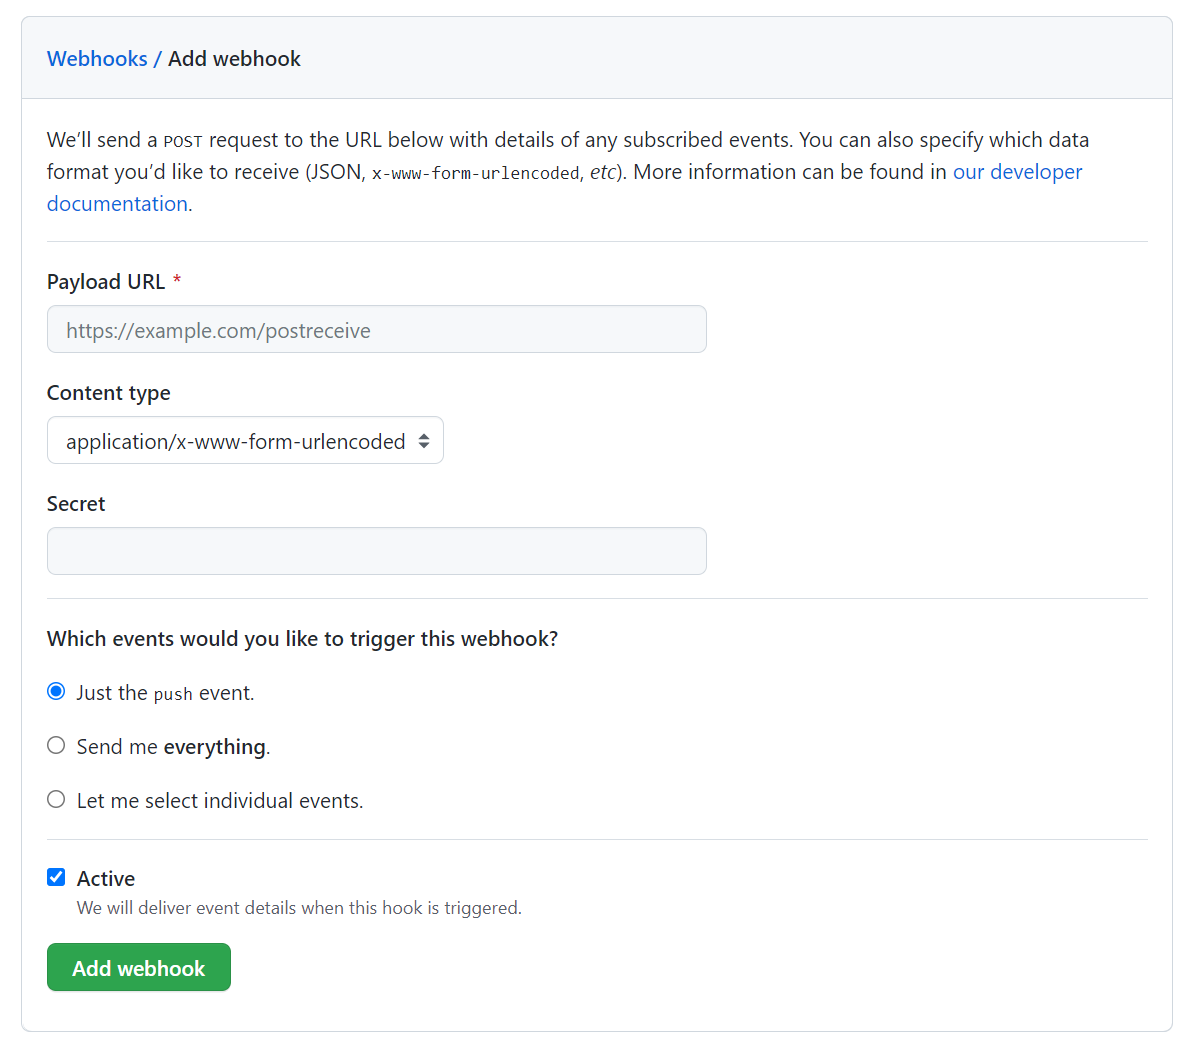
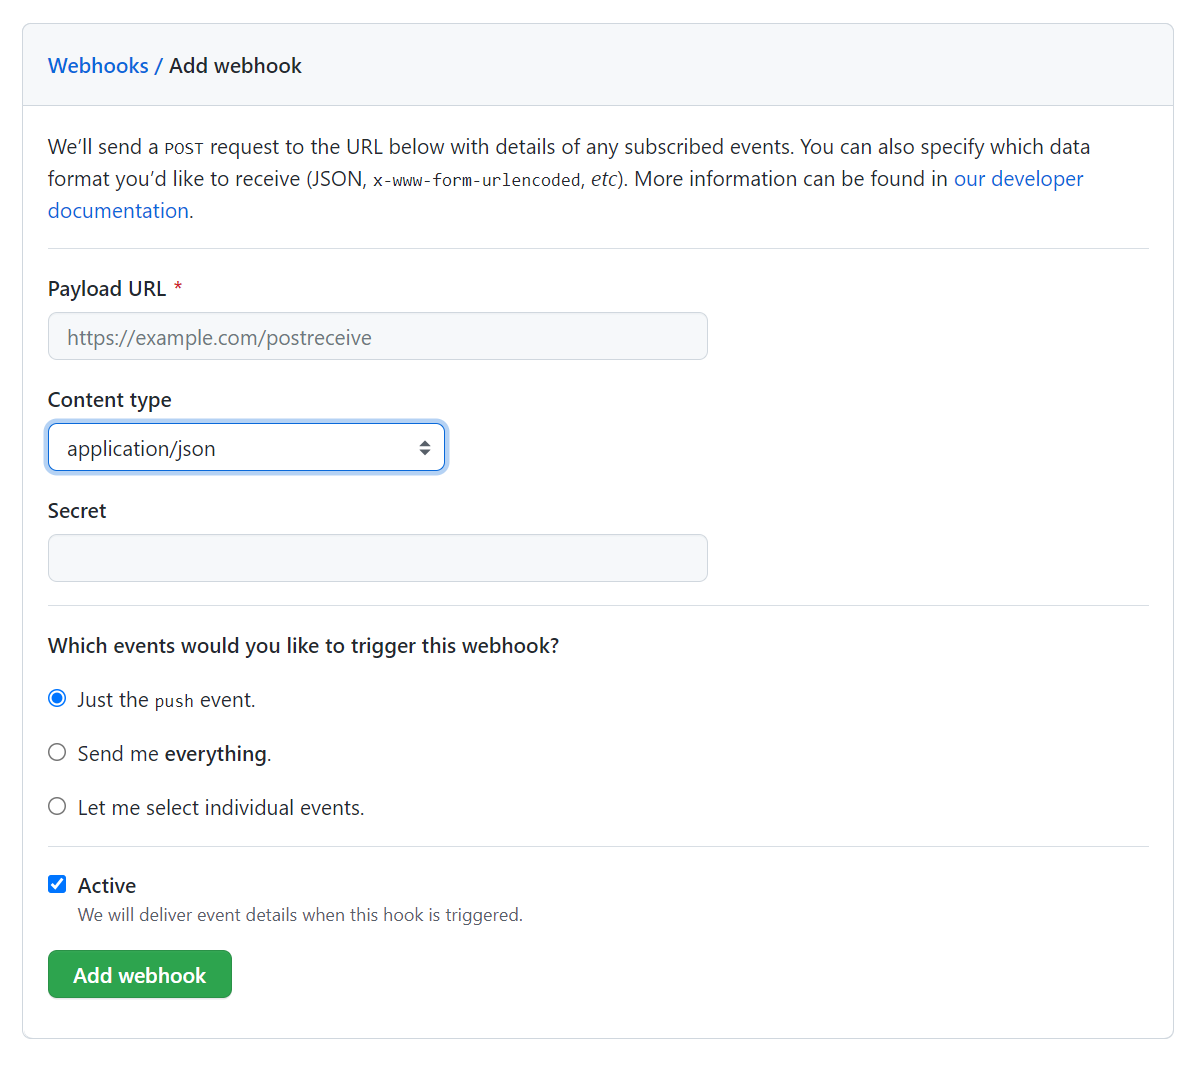
fix for github actions

diff --git a/docs/Build-Server-Integration/GitHub-Actions.md b/docs/Build-Server-Integration/GitHub-Actions.md
@@ -64,7 +64,7 @@ Second, you need to add a dedicated webhook. This means that when the GitHub Act
 
 - Click "Add Webhook"
 - Enter the Payload URL (see below)
-- You can leave the content type at its default
+- Set the content type to "application/json"
 - The secret field is not used by SpiraPlan can be left blank
 - For webhook triggers, the default options will work. If you wish to select individual events you must enable "Workflow runs"
 - Click "Add webhook"
